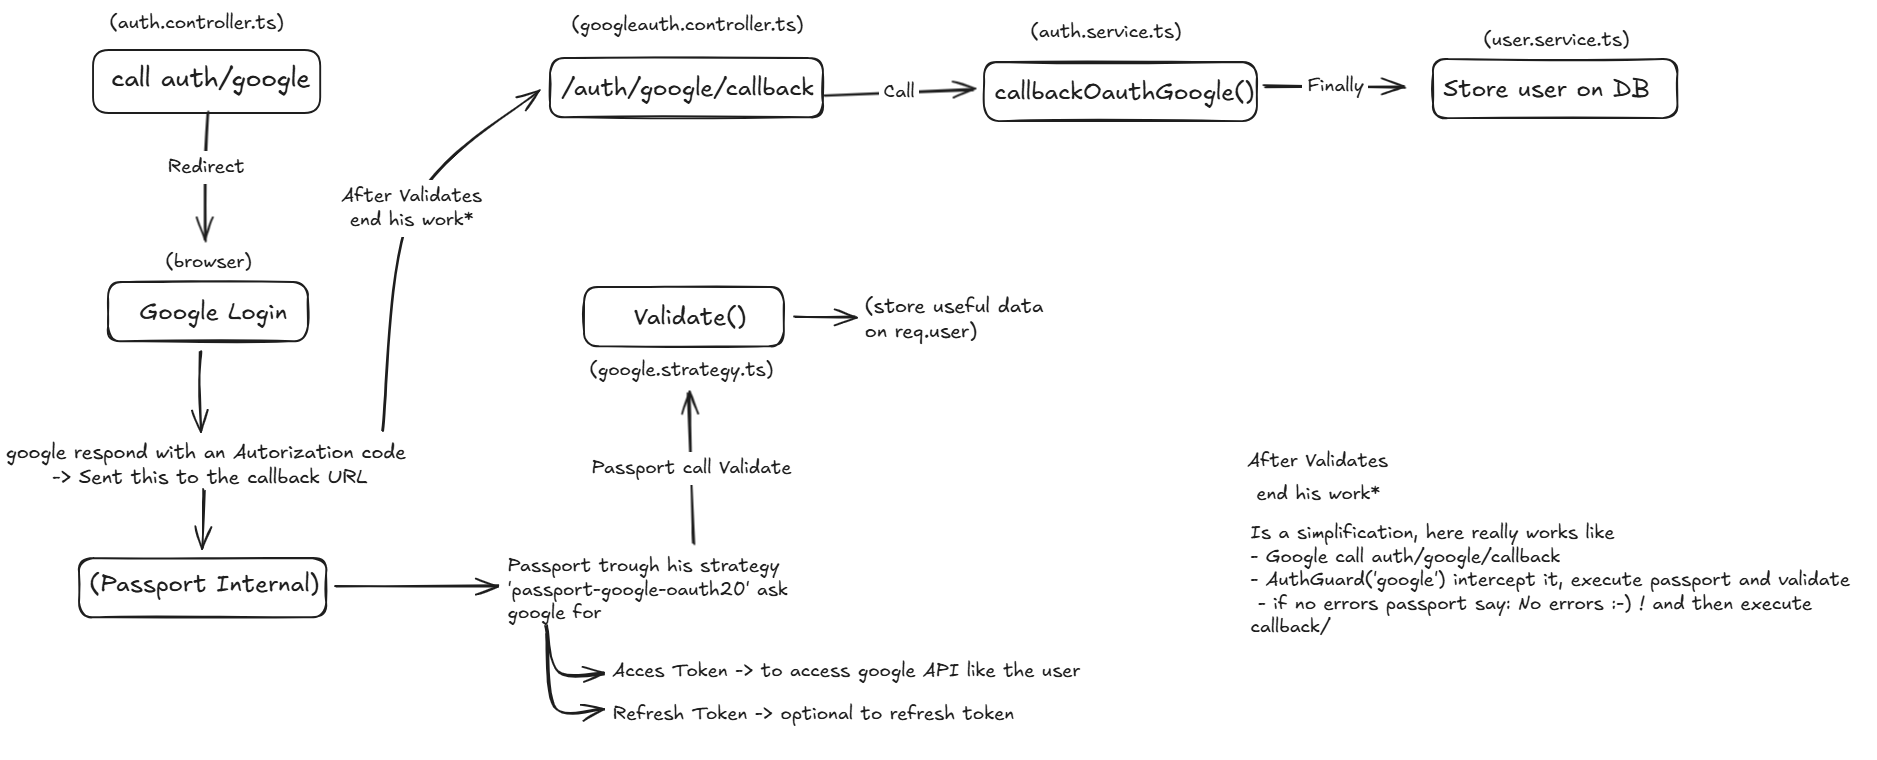
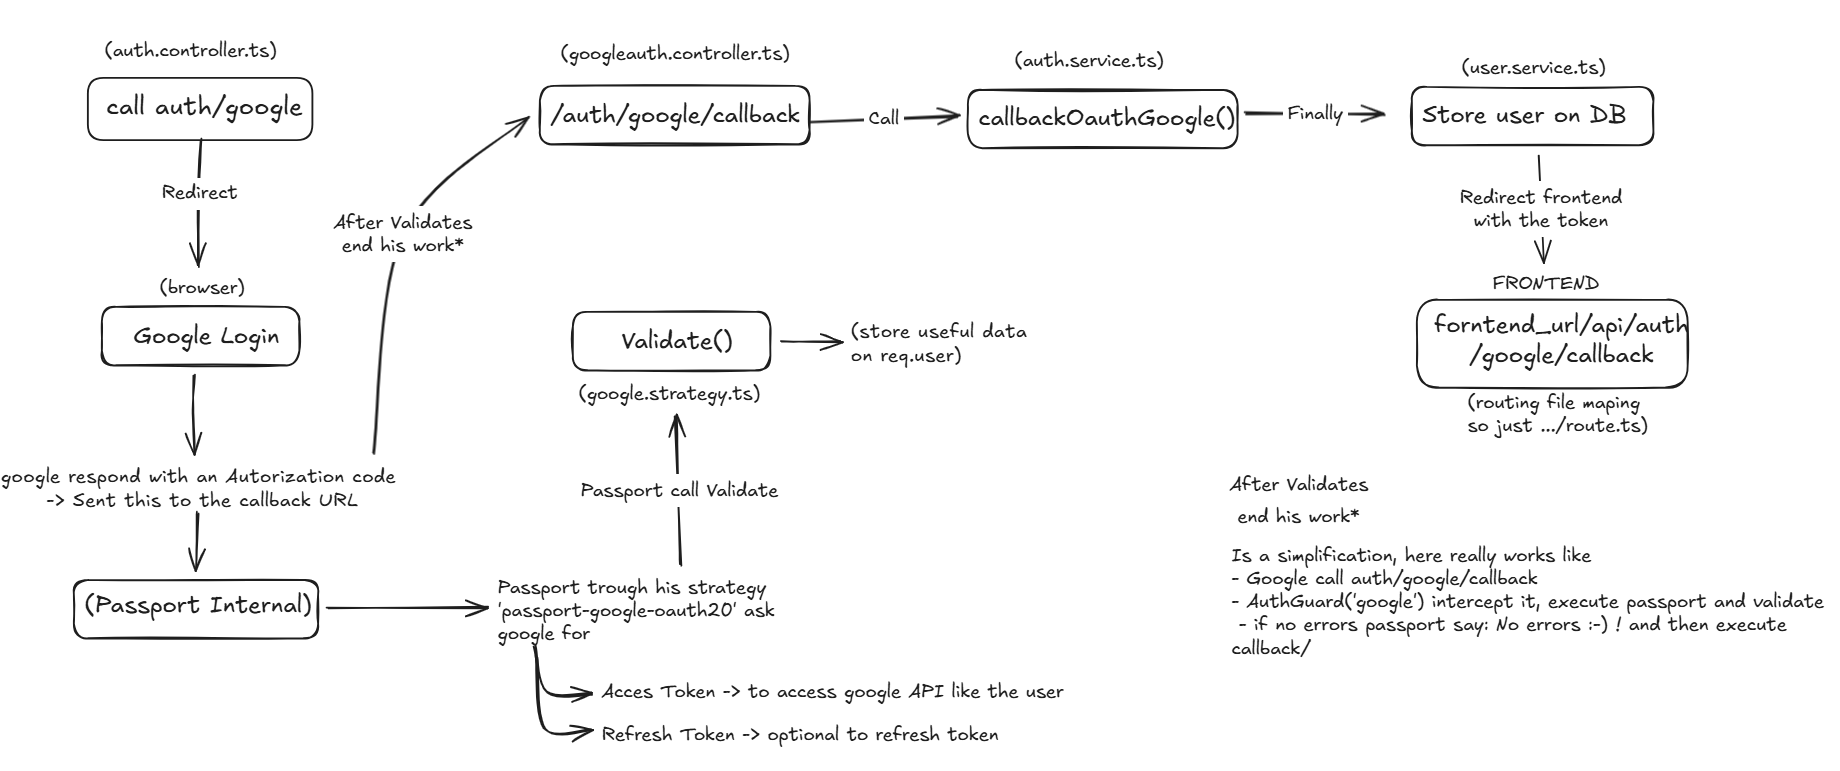
feat: adding joi validations

diff --git a/apps/backend/src/auth/jwt.strategy.ts b/apps/backend/src/auth/jwt.strategy.ts
@@ -3,6 +3,19 @@ import { Injectable } from '@nestjs/common';
 import { PassportStrategy } from '@nestjs/passport';
 import { ConfigService } from '@nestjs/config';
 
+interface RequestWithCookies extends Request {
+   cookies: Record<string, string>;
+}
+
+// function to extract the token from cookies
+const cookieExtractor = (req: RequestWithCookies) => {
+   if (req && req.cookies) {
+      return req.cookies['access_token'];
+   }
+   return null;
+}
+
+
 // This register the jwt guard on passport
 @Injectable()
 export class JwtStrategy extends PassportStrategy(Strategy) {
@@ -10,7 +23,7 @@ export class JwtStrategy extends PassportStrategy(Strategy) {
       private readonly configService: ConfigService,
    ) {
       super({
-         jwtFromRequest: ExtractJwt.fromAuthHeaderAsBearerToken(),
+         jwtFromRequest: ExtractJwt.fromExtractors([cookieExtractor]),
          ignoreExpiration: false,
          secretOrKey: configService.get<string>('AUTH_SECRET'), // our secret key
       });

diff --git a/apps/backend/src/main.ts b/apps/backend/src/main.ts
@@ -2,6 +2,7 @@ import { NestFactory } from '@nestjs/core';
 import { AppModule } from '@/app.module';
 import { SwaggerModule, DocumentBuilder } from '@nestjs/swagger';
 import { INestApplication } from '@nestjs/common';
+import * as cookieParser from 'cookie-parser';
 
 const developerDocumentation = (app: INestApplication) => {
   const config = new DocumentBuilder()
@@ -30,6 +31,7 @@ async function bootstrap() {
   if (process.env.NODE_ENV !== 'production') {
     developerDocumentation(app);
   }
+  app.use(cookieParser()); // so now all the routes need to have access to cookies
   await app.listen(process.env.PORT ?? 3000);
 }
 bootstrap().catch((err) => {

diff --git a/apps/frontend/src/app/api/auth/google/callback/route.ts b/apps/frontend/src/app/api/auth/google/callback/route.ts
@@ -14,7 +14,7 @@ export async function GET(req: NextRequest) {
 
   // Validate token with backend
   try {
-    await api.get('/auth/me', {
+    await api.get('/users/me', {
       headers: {
         Authorization: `Bearer ${token}`,
       },
